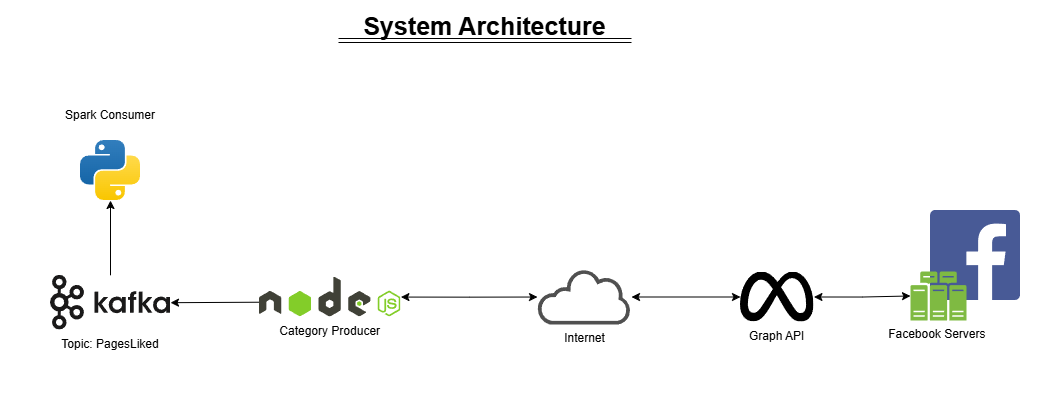
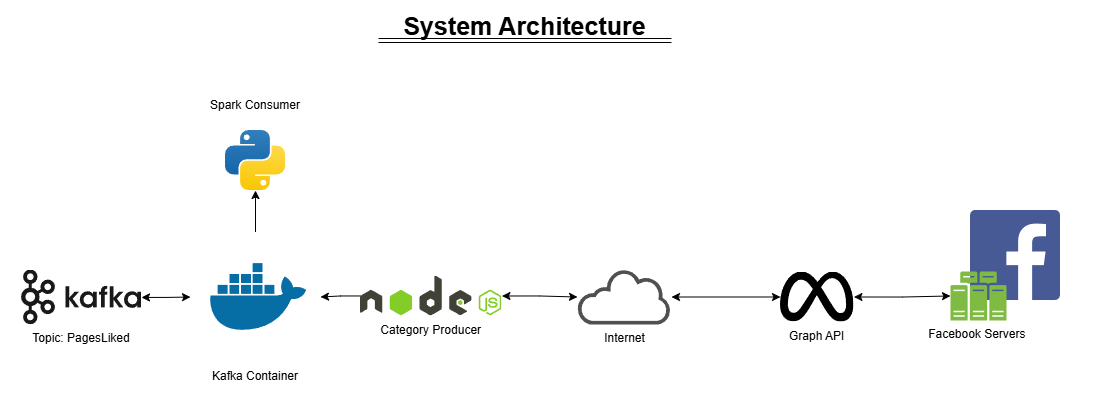
Add: images

diff --git a/readme.md b/readme.md
@@ -24,6 +24,7 @@
 <img src='./icons/meta-logo-facebook-svgrepo-com.svg' alt='meta facebook logo' width=150>
 <img src='./icons/nodejs-logo-svgrepo-com.svg' alt='nodejs logo' width=150>
 <img src='./icons/kafka-svgrepo-com.svg' alt='kafka logo' width=150>
+<img src='./icons/docker-svgrepo-com.svg' alt='docker logo' width=150>
 <img src='./icons/python-svgrepo-com.svg' alt='python logo' width=150>
 </p>
 
@@ -42,9 +43,18 @@
 * make sure that you installed dependencies inside *producer* `npm i ` , inside *pythonSpark* `pip install -r requirements.txt`
    
 
-3.1- Set Token in env (windows powershell) `$env:TOKEN=<Your-Token>`
+3.1- Set Token in env (windows powershell) `$env:TOKEN='<Your-Token>'`
 <br>
 3.2- Starting Producer ` node .\producer\producer.js `
 <br>
 3.3- start consumer ` python .\spark\pythonSpark\main.py `
 
+---
+
+## Images 
+
+<p>
+<img src='./icons/pub.png' alt='published image'>
+
+<img src='./icons/out.png' alt='output image'>
+</p>
